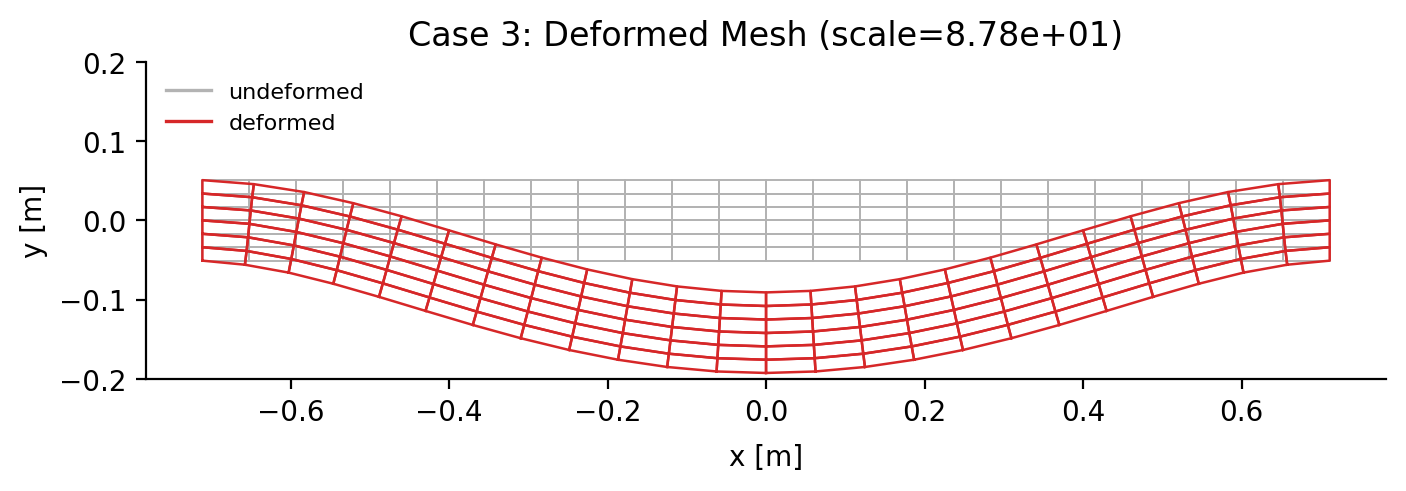
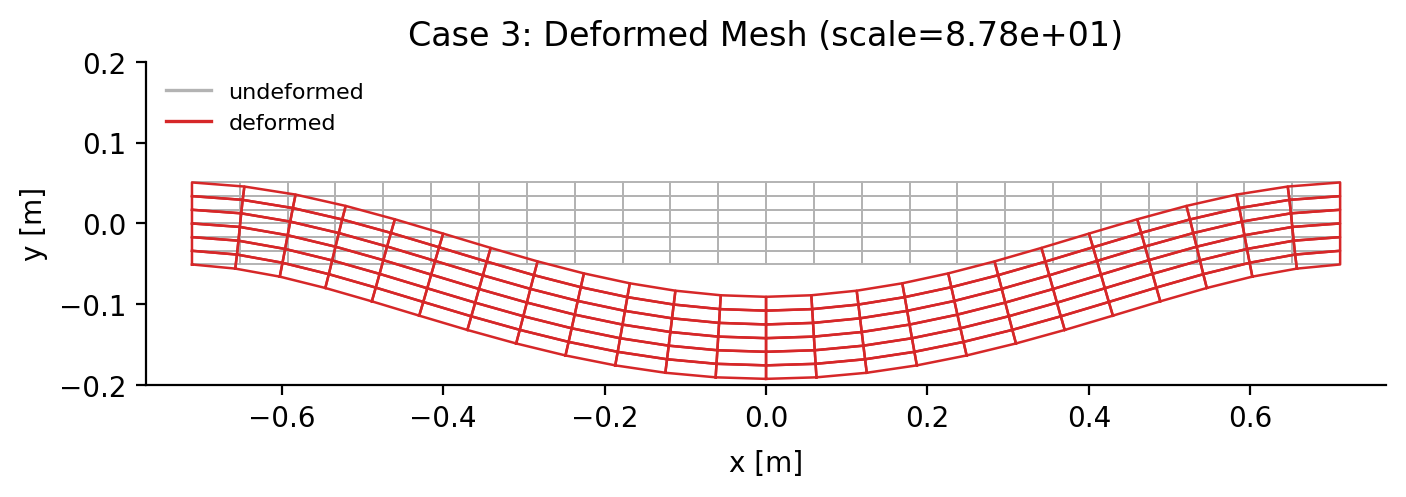
save before adding multiple mesh refinement capability, and composite material modelling

diff --git a/postproc_galerkinFEM.py b/postproc_galerkinFEM.py
@@ -3,6 +3,7 @@ import matplotlib.pyplot as plt
 import matplotlib.tri as mtri
 from matplotlib.lines import Line2D
 from mpl_toolkits.axes_grid1 import make_axes_locatable
+from matplotlib.ticker import FormatStrFormatter
 
 
 def summarize_case(name, out):
@@ -205,7 +206,7 @@ def plot_undeformed_mesh(xy, conn, case, out_path):
 
     xmin, xmax = float(np.min(xy[:, 0])), float(np.max(xy[:, 0]))
     dx = max(xmax - xmin, 1e-12)
-    ax.set_xlim(xmin - 0.05 * dx, xmax + 0.05 * dx)
+    ax.set_xlim(xmin - 0.04 * dx, xmax + 0.04 * dx)
     ax.set_ylim(-0.2, 0.2)
     _style_axes(ax)
     ax.set_title(f"{case['name']}: Undeformed Mesh")
@@ -235,9 +236,10 @@ def plot_deformed_mesh(xy, conn, U_nodes, title, out_path, scale=None):
     fig, ax = plt.subplots(figsize=(8, 3.0))
     _plot_mesh_lines(ax, xy, conn, color="0.70", lw=0.7)
     _plot_mesh_lines(ax, xy_def, conn, color="tab:red", lw=0.9)
-    xmin, xmax = float(np.min(xy[:, 0])), float(np.max(xy[:, 0]))
+    x_all = np.concatenate([xy[:, 0], xy_def[:, 0]])
+    xmin, xmax = float(np.min(x_all)), float(np.max(x_all))
     dx = max(xmax - xmin, 1e-12)
-    ax.set_xlim(xmin - 0.05 * dx, xmax + 0.05 * dx)
+    ax.set_xlim(xmin - 0.04 * dx, xmax + 0.04 * dx)
     ax.set_ylim(y_min_lim, y_max_lim)
     handles = [
         Line2D([0], [0], color="0.70", lw=1.2, label="undeformed"),
@@ -259,6 +261,8 @@ def plot_stress_contour(xy, conn, nodal_scalar_pa, label, title, out_path, cmap=
 
     cbar = plt.colorbar(tcf, ax=ax, orientation="horizontal", pad=0.22, fraction=0.08)
     cbar.set_label(label)
+    cbar.ax.xaxis.set_major_formatter(FormatStrFormatter("%.2e"))
+    cbar.update_ticks()
 
     _style_axes(ax)
     ax.set_title(title)
@@ -306,6 +310,8 @@ def plot_stress_stack(
         cax = divider.append_axes("bottom", size="22%", pad=0.55)
         cbar = fig.colorbar(contour_ref, cax=cax, orientation="horizontal")
         cbar.set_label("Pa")
+        cbar.ax.xaxis.set_major_formatter(FormatStrFormatter("%.2e"))
+        cbar.update_ticks()
 
     fig.suptitle(case_title, fontsize=12)
     fig.savefig(out_path, dpi=200, bbox_inches="tight")

diff --git a/problem2.py b/problem2.py
@@ -16,8 +16,8 @@ xy, conn = gen_quad_mesh(L, W, nx, ny)
 
 # Edge traction magnitude used for all cases as line load (N/m).
 # Equivalent to 1 MPa pressure acting over panel thickness: q = p * t.
-p_ref = 1.0e6  # Pa
-tmag = p_ref * t  # N/m
+P_ref = 1.0e6  # Pa
+tmag = P_ref * t  # N/m
 
 """
 Case 1:
